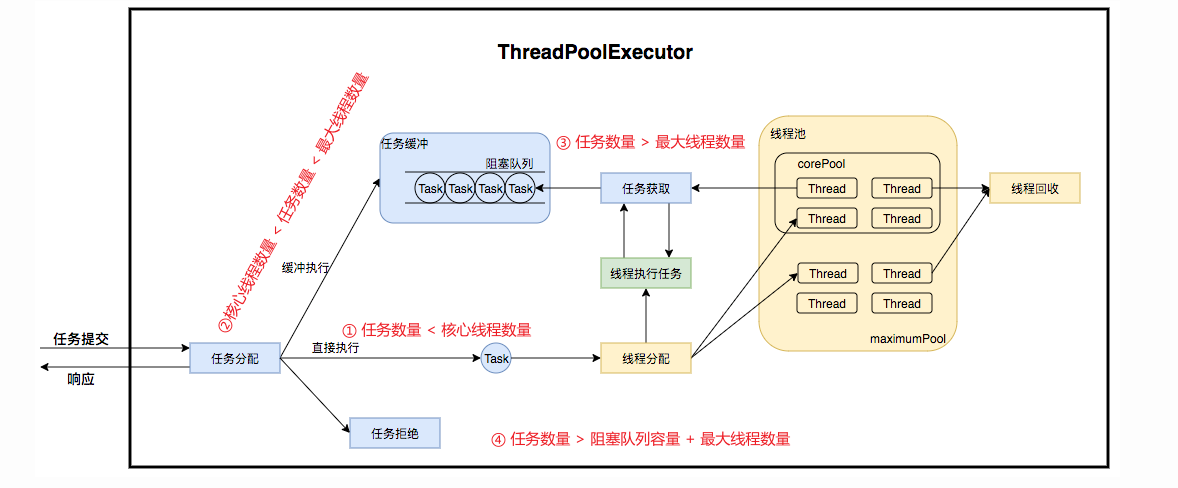
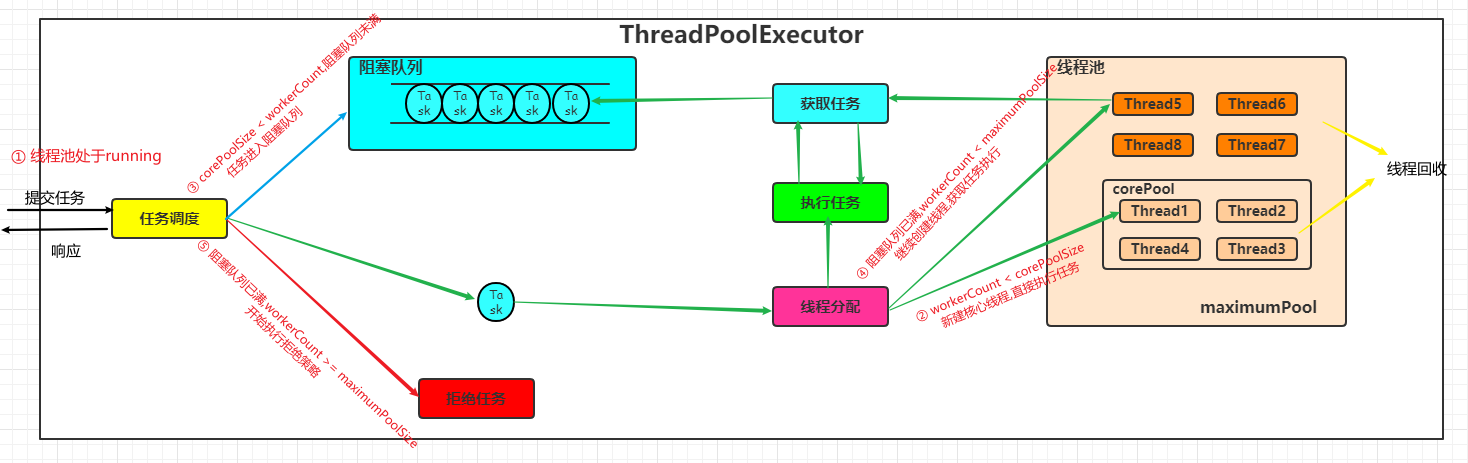
错误修改

diff --git a/docs/_content/chapter11_MultiThread/3_ThreadPool.md b/docs/_content/chapter11_MultiThread/3_ThreadPool.md
@@ -43,11 +43,11 @@
    ![任务执行流程](../../_media/chapter11_MultiThread/3_ThreadPool/线程池流程.png)
 
    1. 线程池是否还在运行: 是执行步骤2,否直接拒绝,线程池主要是保证线程池在其running状态下执行任务
-   2. 提交进来的任务数量 < corePoolSize : 直接开启一个线程去执行任务,直到池中线程数到达corePoolSize
+   2. workerCount < corePoolSize : 直接开启一个线程去执行任务,直到池中线程数到达corePoolSize
       `注意: corePoolSize是从零开始增长的,不是线程池一来就是corePoolSize这么多个线程`
-   3. corePoolSize < 任务数量 < 阻塞队列容量: 任务进入阻塞队列
-   4. 阻塞队列容量 < 任务数量 < maximumPoolSize : 继续创建线程去执行任务,直到池中数量到达maximumPoolSize
-   5. 任务数量 > maximumPoolSize : 开始执行拒绝策略,根据策略处理任务  
+   3. corePoolSize < workerCount,阻塞队列未满 : 任务进入阻塞队列
+   4. 阻塞队列已满,workerCount < maximumPoolSize : 继续创建线程去执行任务,直到池中数量到达maximumPoolSize
+   5. 阻塞队列已满,workerCount >= maximumPoolSize : 开始执行拒绝策略,根据策略处理任务  
       流程图:
       ![流程图](../../_media/chapter11_MultiThread/3_ThreadPool/单个任务执行流程.png)
 
